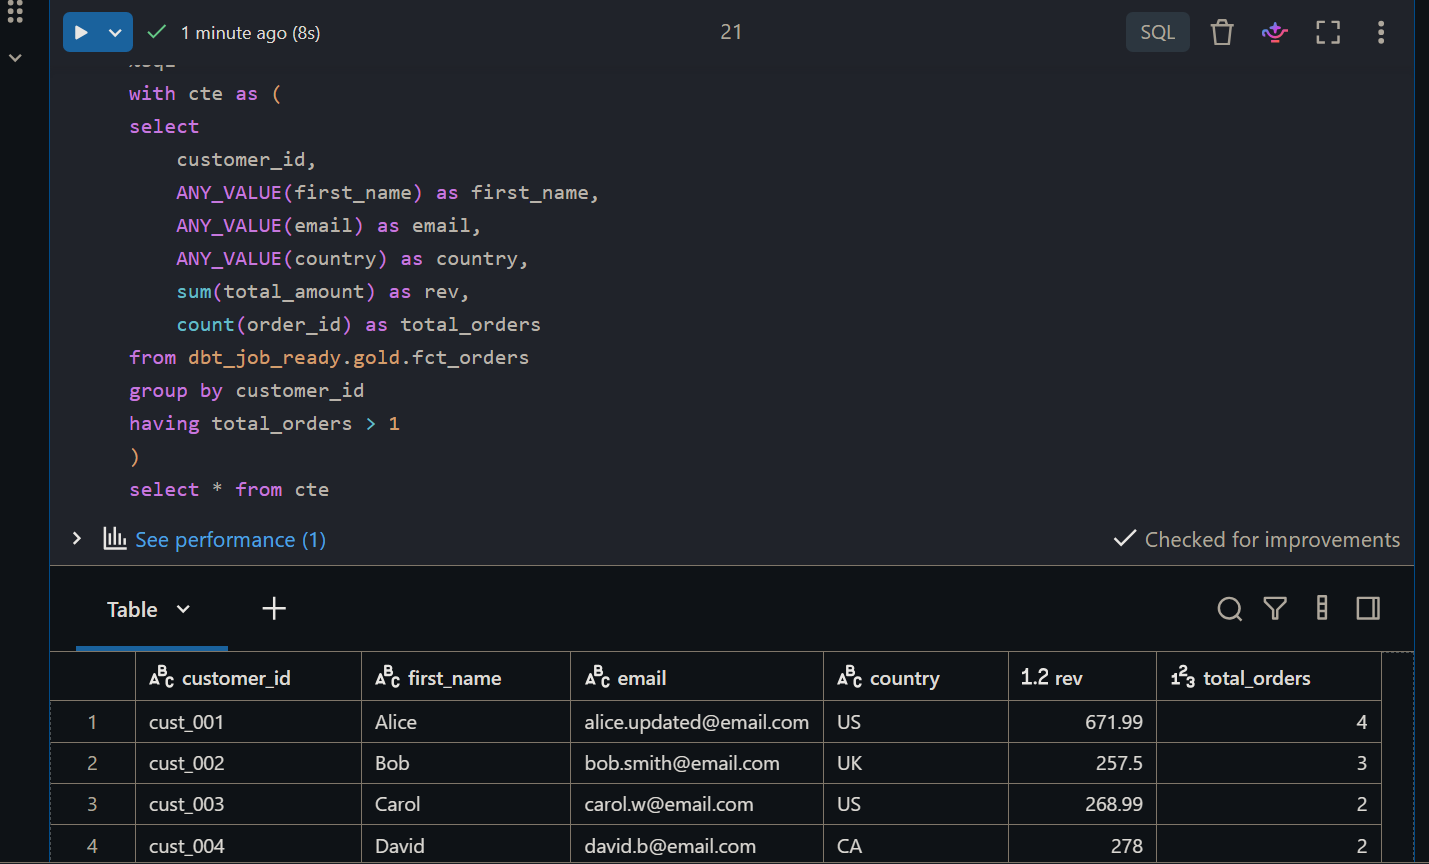
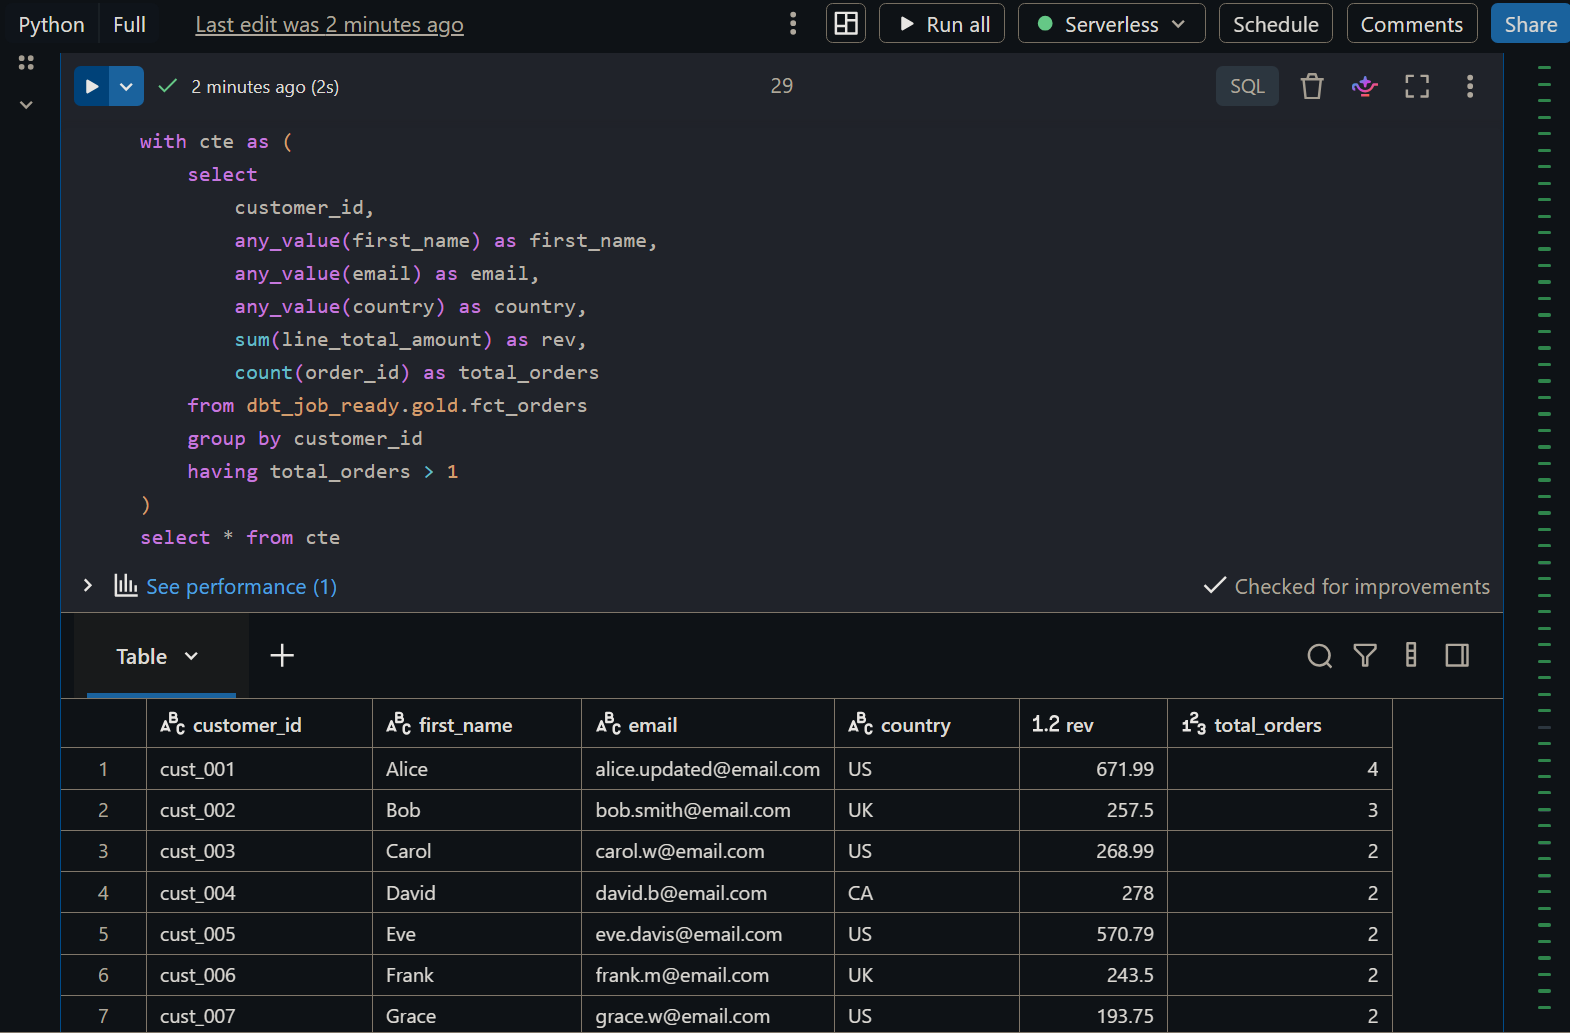
updated

diff --git a/readme.md b/readme.md
@@ -368,7 +368,7 @@ with cte as (
         any_value(first_name) as first_name,
         any_value(email) as email,
         any_value(country) as country,
-        sum(total_amount) as rev,
+        sum(line_total_amount) as rev,
         count(order_id) as total_orders
     from dbt_job_ready.gold.fct_orders
     group by customer_id
